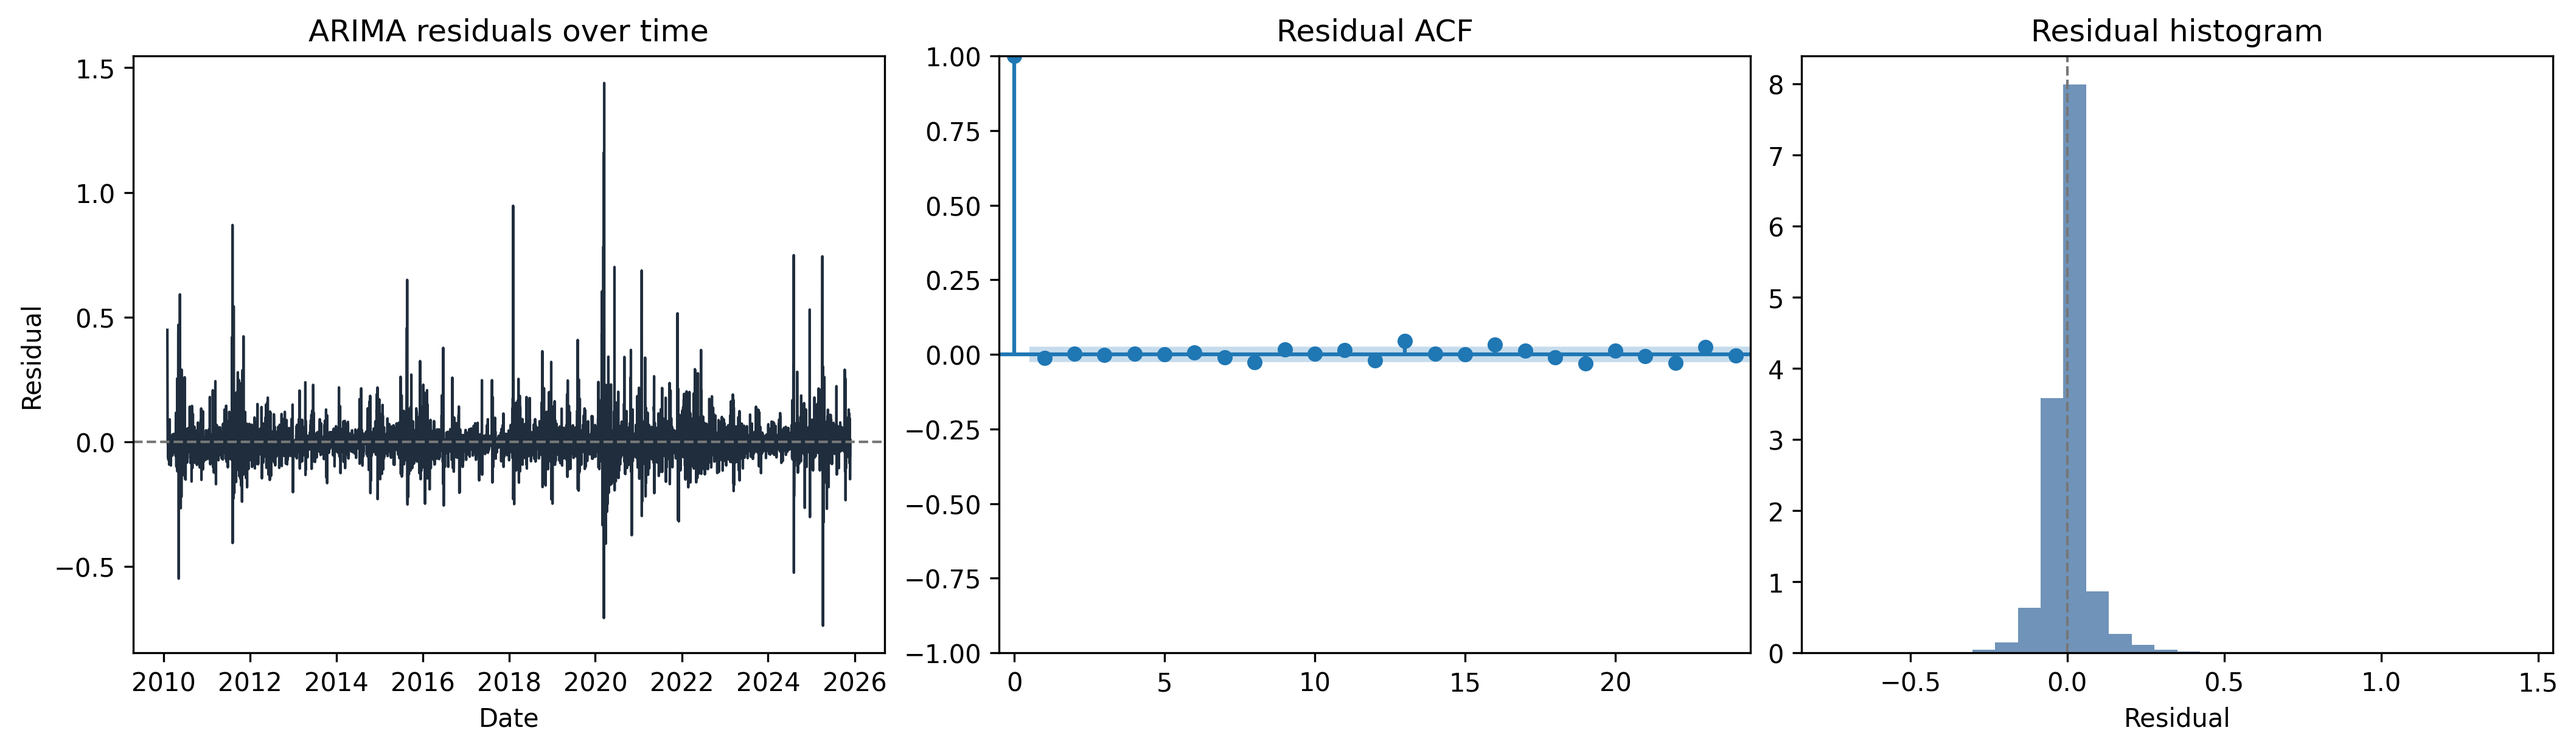
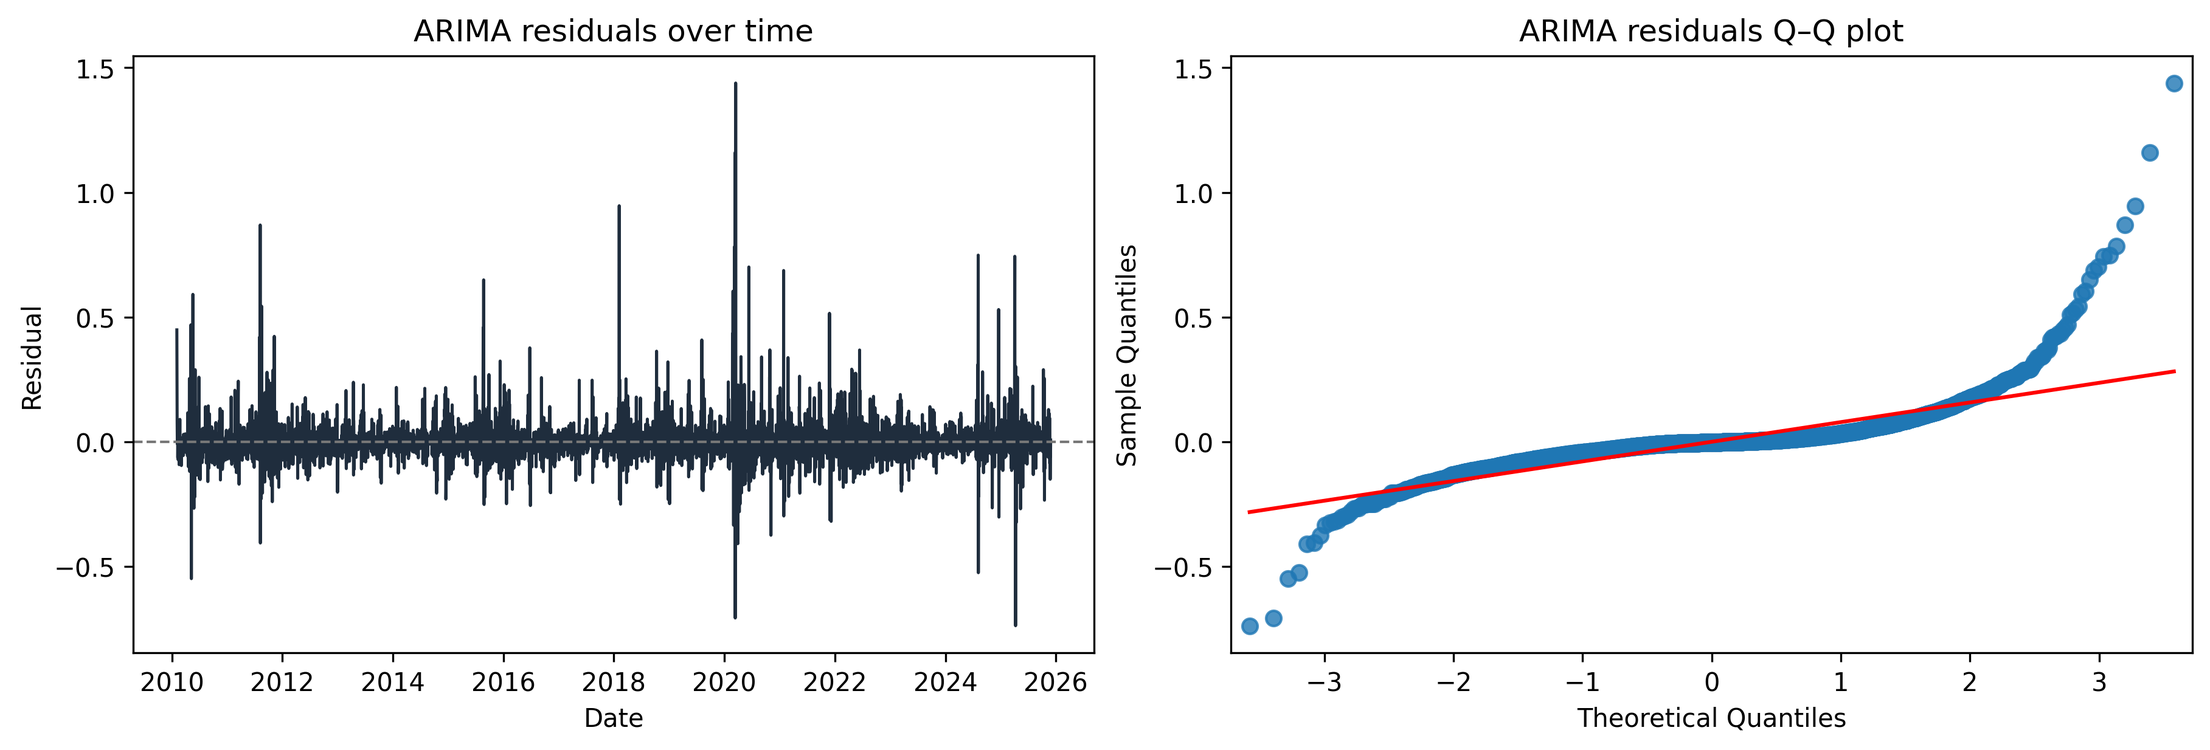
Simplify ARIMA residual diagnostics (time series + Q-Q)

diff --git a/forecasting_script.py b/forecasting_script.py
@@ -6,6 +6,7 @@ import matplotlib
 import matplotlib.pyplot as plt
 import pandas as pd
 from statsmodels.tsa.stattools import adfuller
+from statsmodels.graphics.gofplots import qqplot
 from statsmodels.graphics.tsaplots import plot_acf, plot_pacf
 
 sys.path.append(os.path.abspath("."))
@@ -135,25 +136,18 @@ def save_figures(
     try:
         if arima_model is not None and hasattr(arima_model, "resid"):
             arima_resid = pd.Series(arima_model.resid, index=df.index).dropna()
-            fig, axes = plt.subplots(1, 3, figsize=(14, 4), constrained_layout=True)
+            fig, axes = plt.subplots(1, 2, figsize=(12, 4), constrained_layout=True)
 
-            # Residuals over time
-            axes[0].plot(arima_resid.index, arima_resid.values, color="#1f2d3d", linewidth=1)
+            # Residuals over time (use project blue)
+            axes[0].plot(arima_resid.index, arima_resid.values, color="#1f2d3d", linewidth=1.2)
             axes[0].axhline(0, color="#777777", linewidth=1, linestyle="--")
             axes[0].set_title("ARIMA residuals over time")
             axes[0].set_xlabel("Date")
             axes[0].set_ylabel("Residual")
 
-            # ACF of residuals
-            plot_acf(arima_resid, lags=24, ax=axes[1])
-            axes[1].set_title("Residual ACF")
-            axes[1].set_xlim(-0.5, 24.5)
-
-            # Histogram of residuals
-            axes[2].hist(arima_resid, bins=30, color="#4c78a8", alpha=0.8, density=True)
-            axes[2].axvline(0, color="#777777", linewidth=1, linestyle="--")
-            axes[2].set_title("Residual histogram")
-            axes[2].set_xlabel("Residual")
+            # Normal Q–Q plot
+            qqplot(arima_resid, line="s", ax=axes[1], color="#4c78a8", alpha=0.8)
+            axes[1].set_title("ARIMA residuals Q–Q plot")
 
             fig.savefig(REPORT_DIR / "arima_residual_diagnostics.png", dpi=300, bbox_inches="tight")
             plt.close(fig)
